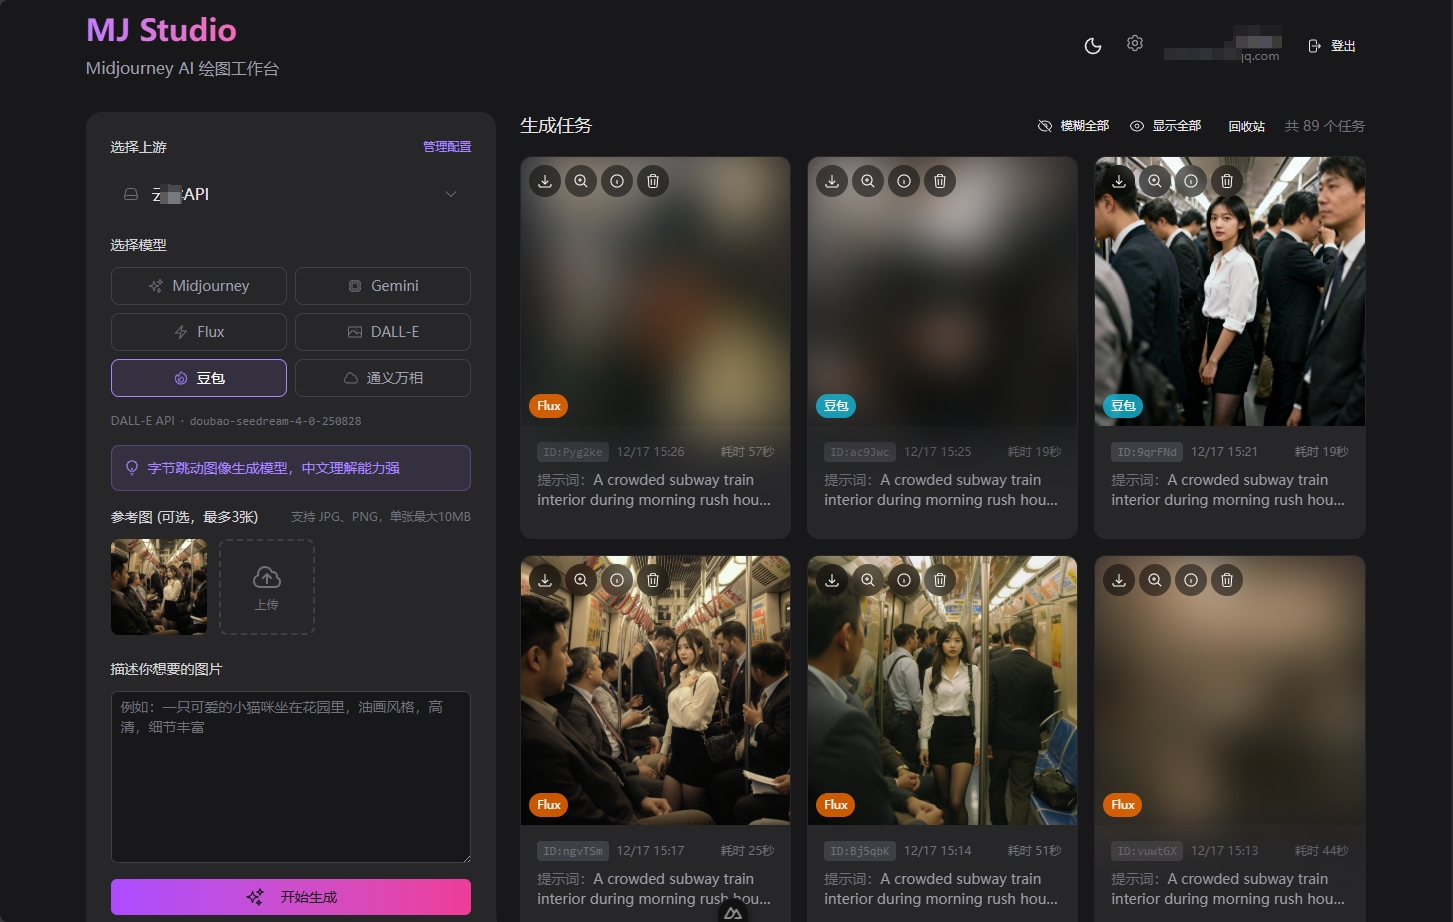
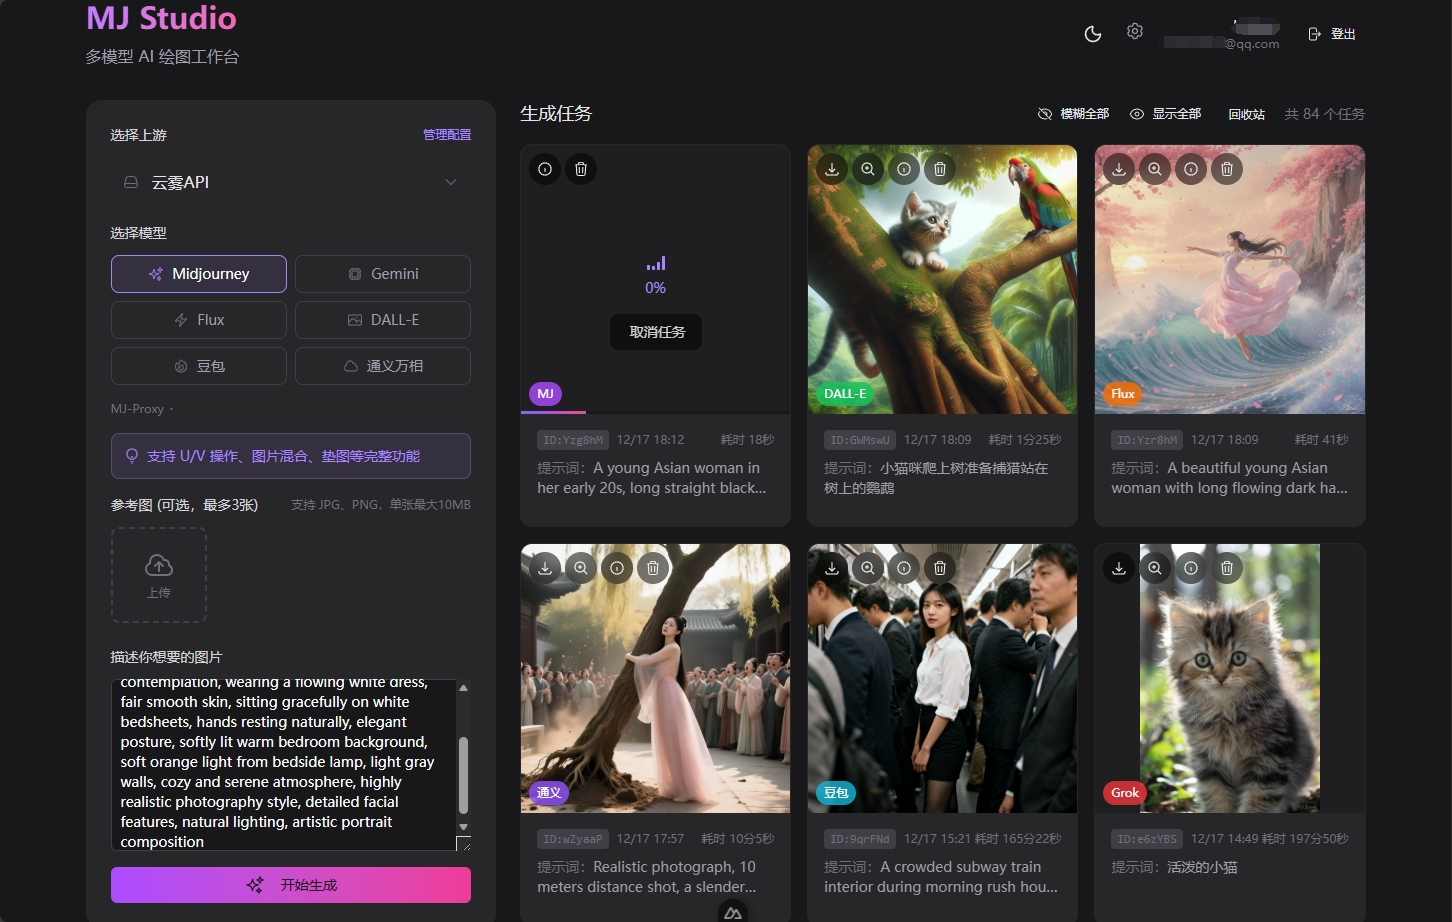
fix: 修复深色模式下输入框边框不可见问题
- 将输入框、选择框、文本域边框从 border-(--ui-border) 改为 border-(--ui-border-accented)
- 更新页面副标题为"多模型 AI 绘图工作台"
- 更新浏览器标题为"MJ Studio - 多模型 AI 绘图工作台"

diff --git a/app/pages/settings.vue b/app/pages/settings.vue
@@ -348,7 +348,7 @@ function formatModelTypes(modelTypeConfigs: ModelTypeConfig[]) {
                   v-model="form.name"
                   type="text"
                   placeholder="例如：我的MJ账号"
-                  class="w-full px-4 py-3 rounded-lg bg-(--ui-bg-muted) border border-(--ui-border) text-(--ui-text) placeholder-(--ui-text-dimmed) focus:outline-none focus:border-(--ui-primary)"
+                  class="w-full px-4 py-3 rounded-lg bg-(--ui-bg-muted) border border-(--ui-border-accented) text-(--ui-text) placeholder-(--ui-text-dimmed) focus:outline-none focus:border-(--ui-primary)"
                   required
                 />
               </div>
@@ -360,7 +360,7 @@ function formatModelTypes(modelTypeConfigs: ModelTypeConfig[]) {
                   v-model="form.baseUrl"
                   type="url"
                   placeholder="https://api.example.com"
-                  class="w-full px-4 py-3 rounded-lg bg-(--ui-bg-muted) border border-(--ui-border) text-(--ui-text) placeholder-(--ui-text-dimmed) focus:outline-none focus:border-(--ui-primary)"
+                  class="w-full px-4 py-3 rounded-lg bg-(--ui-bg-muted) border border-(--ui-border-accented) text-(--ui-text) placeholder-(--ui-text-dimmed) focus:outline-none focus:border-(--ui-primary)"
                   required
                 />
               </div>
@@ -372,7 +372,7 @@ function formatModelTypes(modelTypeConfigs: ModelTypeConfig[]) {
                   v-model="form.apiKey"
                   type="password"
                   placeholder="sk-xxx..."
-                  class="w-full px-4 py-3 rounded-lg bg-(--ui-bg-muted) border border-(--ui-border) text-(--ui-text) placeholder-(--ui-text-dimmed) focus:outline-none focus:border-(--ui-primary)"
+                  class="w-full px-4 py-3 rounded-lg bg-(--ui-bg-muted) border border-(--ui-border-accented) text-(--ui-text) placeholder-(--ui-text-dimmed) focus:outline-none focus:border-(--ui-primary)"
                   required
                 />
               </div>
@@ -399,7 +399,7 @@ function formatModelTypes(modelTypeConfigs: ModelTypeConfig[]) {
                         <label class="block text-(--ui-text-dimmed) text-xs mb-1">模型类型</label>
                         <select
                           v-model="mtc.modelType"
-                          class="w-full px-3 py-2 rounded bg-(--ui-bg) border border-(--ui-border) text-(--ui-text) text-sm"
+                          class="w-full px-3 py-2 rounded bg-(--ui-bg) border border-(--ui-border-accented) text-(--ui-text) text-sm"
                           @change="onModelTypeChange(index)"
                         >
                           <option v-for="type in modelTypeOptions" :key="type" :value="type">
@@ -413,7 +413,7 @@ function formatModelTypes(modelTypeConfigs: ModelTypeConfig[]) {
                         <label class="block text-(--ui-text-dimmed) text-xs mb-1">请求格式</label>
                         <select
                           v-model="mtc.apiFormat"
-                          class="w-full px-3 py-2 rounded bg-(--ui-bg) border border-(--ui-border) text-(--ui-text) text-sm"
+                          class="w-full px-3 py-2 rounded bg-(--ui-bg) border border-(--ui-border-accented) text-(--ui-text) text-sm"
                         >
                           <option v-for="fmt in getAvailableFormats(mtc.modelType)" :key="fmt" :value="fmt">
                             {{ API_FORMAT_LABELS[fmt] }}
@@ -438,7 +438,7 @@ function formatModelTypes(modelTypeConfigs: ModelTypeConfig[]) {
                         v-model="mtc.modelName"
                         type="text"
                         :placeholder="DEFAULT_MODEL_NAMES[mtc.modelType] || '可选'"
-                        class="w-full px-3 py-2 rounded bg-(--ui-bg) border border-(--ui-border) text-(--ui-text) placeholder-(--ui-text-dimmed) text-sm"
+                        class="w-full px-3 py-2 rounded bg-(--ui-bg) border border-(--ui-border-accented) text-(--ui-text) placeholder-(--ui-text-dimmed) text-sm"
                       />
                     </div>
 
@@ -449,7 +449,7 @@ function formatModelTypes(modelTypeConfigs: ModelTypeConfig[]) {
                         v-model.number="mtc.estimatedTime"
                         type="number"
                         min="1"
-                        class="w-full px-3 py-2 rounded bg-(--ui-bg) border border-(--ui-border) text-(--ui-text) text-sm"
+                        class="w-full px-3 py-2 rounded bg-(--ui-bg) border border-(--ui-border-accented) text-(--ui-text) text-sm"
                       />
                     </div>
                   </div>
@@ -467,7 +467,7 @@ function formatModelTypes(modelTypeConfigs: ModelTypeConfig[]) {
                   v-model="form.remark"
                   placeholder="添加一些说明..."
                   rows="2"
-                  class="w-full px-4 py-3 rounded-lg bg-(--ui-bg-muted) border border-(--ui-border) text-(--ui-text) placeholder-(--ui-text-dimmed) focus:outline-none focus:border-(--ui-primary) resize-none"
+                  class="w-full px-4 py-3 rounded-lg bg-(--ui-bg-muted) border border-(--ui-border-accented) text-(--ui-text) placeholder-(--ui-text-dimmed) focus:outline-none focus:border-(--ui-primary) resize-none"
                 />
               </div>
 
@@ -476,7 +476,7 @@ function formatModelTypes(modelTypeConfigs: ModelTypeConfig[]) {
                 <input
                   v-model="form.isDefault"
                   type="checkbox"
-                  class="w-5 h-5 rounded bg-(--ui-bg-muted) border-(--ui-border) text-(--ui-primary) focus:ring-(--ui-primary)"
+                  class="w-5 h-5 rounded bg-(--ui-bg-muted) border-(--ui-border-accented) text-(--ui-primary) focus:ring-(--ui-primary)"
                 />
                 <span class="text-(--ui-text-muted)">设为默认配置</span>
               </label>

diff --git a/app/pages/login.vue b/app/pages/login.vue
@@ -67,7 +67,7 @@ function toggleMode() {
               MJ Studio
             </span>
           </h1>
-          <p class="text-(--ui-text-muted)">Midjourney AI 绘图工作台</p>
+          <p class="text-(--ui-text-muted)">多模型 AI 绘图工作台</p>
         </div>
 
         <!-- 表单卡片 -->
@@ -84,7 +84,7 @@ function toggleMode() {
                 v-model="form.name"
                 type="text"
                 placeholder="输入昵称（可选）"
-                class="w-full px-4 py-3 rounded-lg bg-(--ui-bg-muted) border border-(--ui-border) text-(--ui-text) placeholder-(--ui-text-dimmed) focus:outline-none focus:border-(--ui-primary) focus:ring-1 focus:ring-(--ui-primary) transition-colors"
+                class="w-full px-4 py-3 rounded-lg bg-(--ui-bg-muted) border border-(--ui-border-accented) text-(--ui-text) placeholder-(--ui-text-dimmed) focus:outline-none focus:border-(--ui-primary) focus:ring-1 focus:ring-(--ui-primary) transition-colors"
               />
             </div>
 
@@ -95,7 +95,7 @@ function toggleMode() {
                 v-model="form.email"
                 type="email"
                 placeholder="输入邮箱"
-                class="w-full px-4 py-3 rounded-lg bg-(--ui-bg-muted) border border-(--ui-border) text-(--ui-text) placeholder-(--ui-text-dimmed) focus:outline-none focus:border-(--ui-primary) focus:ring-1 focus:ring-(--ui-primary) transition-colors"
+                class="w-full px-4 py-3 rounded-lg bg-(--ui-bg-muted) border border-(--ui-border-accented) text-(--ui-text) placeholder-(--ui-text-dimmed) focus:outline-none focus:border-(--ui-primary) focus:ring-1 focus:ring-(--ui-primary) transition-colors"
               />
             </div>
 
@@ -106,7 +106,7 @@ function toggleMode() {
                 v-model="form.password"
                 type="password"
                 placeholder="输入密码"
-                class="w-full px-4 py-3 rounded-lg bg-(--ui-bg-muted) border border-(--ui-border) text-(--ui-text) placeholder-(--ui-text-dimmed) focus:outline-none focus:border-(--ui-primary) focus:ring-1 focus:ring-(--ui-primary) transition-colors"
+                class="w-full px-4 py-3 rounded-lg bg-(--ui-bg-muted) border border-(--ui-border-accented) text-(--ui-text) placeholder-(--ui-text-dimmed) focus:outline-none focus:border-(--ui-primary) focus:ring-1 focus:ring-(--ui-primary) transition-colors"
               />
             </div>
 

diff --git a/app/components/DrawingPanel.vue b/app/components/DrawingPanel.vue
@@ -218,7 +218,7 @@ async function handleSubmit() {
         <UIcon name="i-heroicons-server" class="absolute left-3 top-1/2 -translate-y-1/2 w-4 h-4 text-(--ui-text-dimmed) pointer-events-none" />
         <select
           v-model="selectedConfigId"
-          class="w-full pl-10 pr-4 py-3 rounded-lg bg-(--ui-bg-muted) border border-(--ui-border) text-(--ui-text) focus:outline-none focus:border-(--ui-primary) appearance-none cursor-pointer"
+          class="w-full pl-10 pr-4 py-3 rounded-lg bg-(--ui-bg-muted) border border-(--ui-border-accented) text-(--ui-text) focus:outline-none focus:border-(--ui-primary) appearance-none cursor-pointer"
         >
           <option v-for="config in modelConfigs" :key="config.id" :value="config.id">
             {{ config.name }}

diff --git a/nuxt.config.ts b/nuxt.config.ts
@@ -9,9 +9,9 @@ export default defineNuxtConfig({
 
   app: {
     head: {
-      title: 'MJ Studio',
+      title: 'MJ Studio - 多模型 AI 绘图工作台',
       meta: [
-        { name: 'description', content: 'Midjourney AI 绘图工作台' },
+        { name: 'description', content: '多模型 AI 绘图工作台' },
       ],
     },
   },

diff --git a/app/pages/index.vue b/app/pages/index.vue
@@ -69,7 +69,7 @@ onUnmounted(() => {
               MJ Studio
             </span>
           </h1>
-          <p class="text-(--ui-text-muted)">Midjourney AI 绘图工作台</p>
+          <p class="text-(--ui-text-muted)">多模型 AI 绘图工作台</p>
         </div>
 
         <!-- 用户信息 -->
